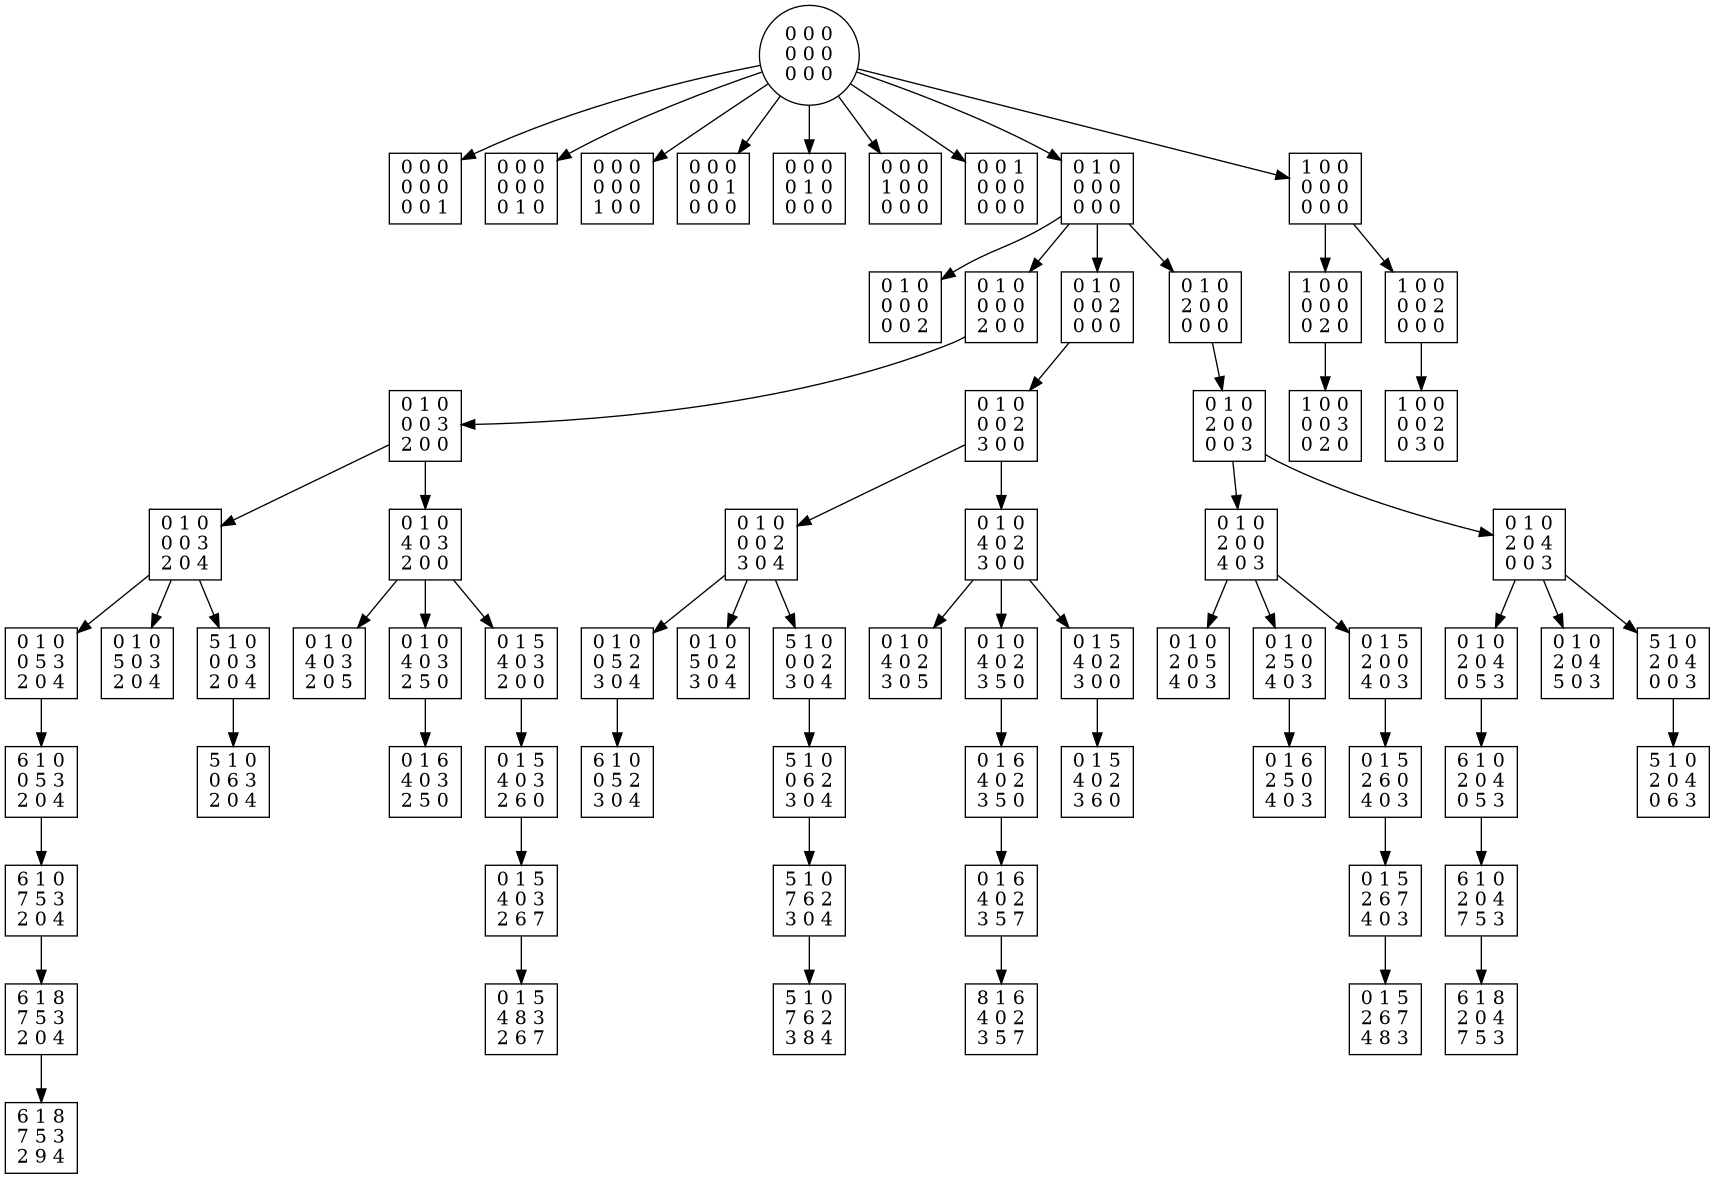
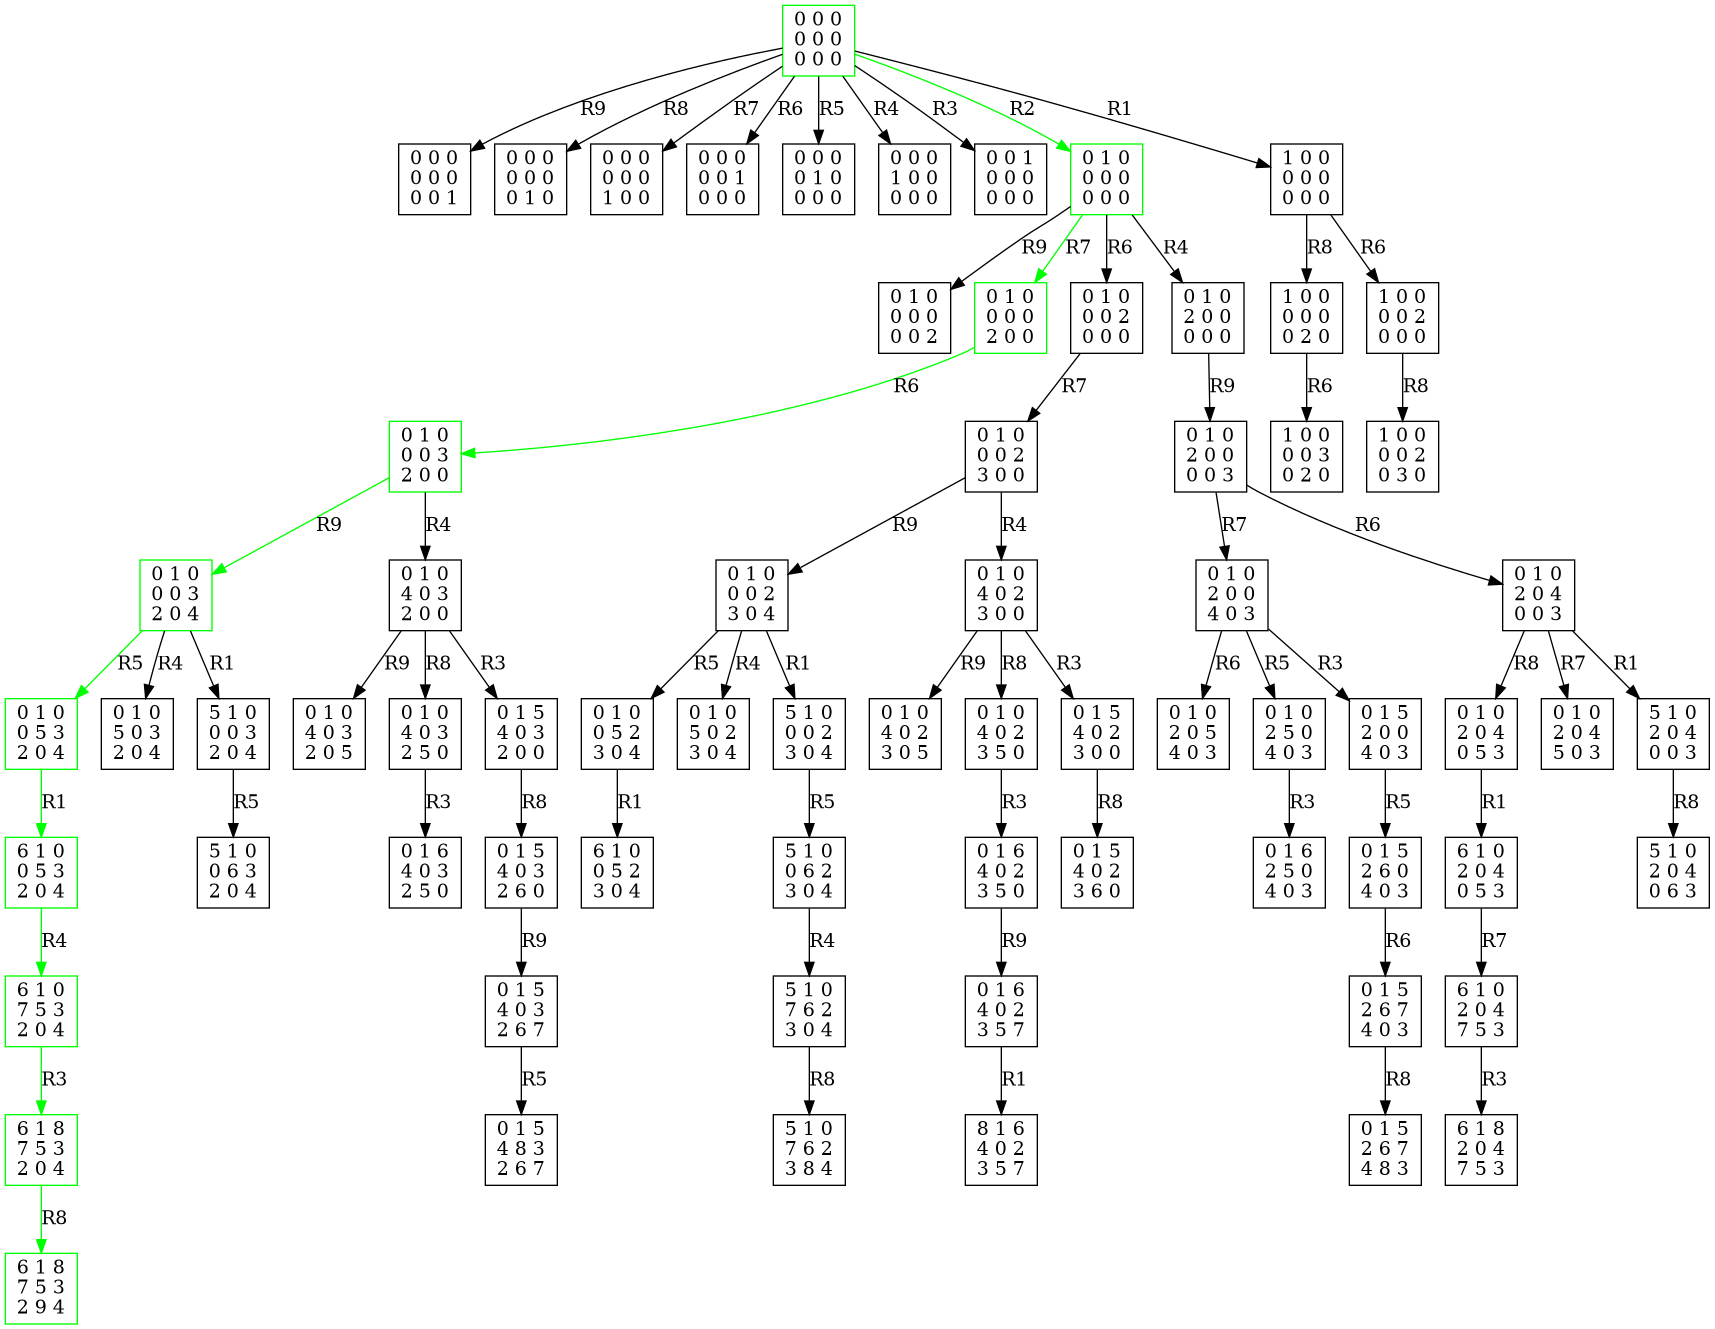
Paint solution path on tree and change nodes and edges names to unique state index

diff --git a/MagicSquare/Search.py b/MagicSquare/Search.py
@@ -9,19 +9,24 @@ from MagicSquare.State import State
 
 class Search:
     def __init__(self, magic_square_size=3, rules_desc=False) -> None:
-        self.__graph = pydot.Dot("search_tree", graph_type="digraph")
-        self.__output_dir_path = path.join(path.curdir, 'search_trees_output')
+        self.__tree = SearchTree()
 
+        self.__graph = pydot.Dot("search_tree", graph_type="digraph")
+        self.__graph.add_node(pydot.Node(self.__tree.root.instance_index, shape="box", label=self.__tree.root.magic_square.__str__()))
+        
+        self.__output_dir_path = path.join(path.curdir, 'search_trees_output')
+        
         if not path.exists(self.__output_dir_path):
             mkdir(self.__output_dir_path)
 
-        self.__tree = SearchTree()
         self.__rules: list[SearchRule] = list()
         self.__rules_desc = rules_desc
 
+        rule_counter = 1
         for x in range(0, magic_square_size):
             for y in range(0, magic_square_size):
-                self.__rules.append(SearchRule(x, y))
+                self.__rules.append(SearchRule(x, y, f'R{rule_counter}'))
+                rule_counter += 1
         
         if self.__rules_desc:
             self.__rules = self.__rules[::-1]
@@ -40,6 +45,36 @@ class Search:
         except IndexError:
             return None
 
+    def __paint_solution_path(self, solution_state: State):
+        current_state = solution_state
+
+        while current_state.parent is not None:
+            edge_source = current_state.parent.instance_index
+            edge_destination = current_state.instance_index
+
+            self.__graph.get_edge(edge_source, edge_destination)[0].obj_dict['attributes']['color'] = 'green'
+            self.__graph.get_node(str(current_state.instance_index))[0].obj_dict['attributes']['color'] = 'green'
+
+            current_state = current_state.parent
+
+        self.__graph.get_node(str(current_state.instance_index))[0].obj_dict['attributes']['color'] = 'green'
+
+    def __add_state_to_tree(self, state: State, rule_name: str):
+        self.__graph.add_node(
+            pydot.Node(
+                state.instance_index,
+                shape="box",
+                label=state.magic_square.__str__()
+            )
+        )
+        self.__graph.add_edge(
+            pydot.Edge(
+                state.parent.instance_index,
+                state.instance_index,
+                label=rule_name
+            )
+        )
+
     def backtracking_search(self) -> State:
         current_state = self.tree.root
         new_state: State = None
@@ -53,8 +88,7 @@ class Search:
                     new_state = current_state.visit_new_state(next_rule)
 
                     if new_state:
-                        self.__graph.add_node(pydot.Node(new_state.magic_square.__str__(), shape="box"))
-                        self.__graph.add_edge(pydot.Edge(new_state.parent.magic_square.__str__(), new_state.magic_square.__str__()))
+                        self.__add_state_to_tree(new_state, next_rule.name)
                 else:
                     # Deadlock state
                     current_state = current_state.parent
@@ -66,8 +100,10 @@ class Search:
                 current_state = new_state
                 new_state = None
 
+        self.__paint_solution_path(new_state)
         file_path = path.join(self.__output_dir_path, f"backtracking-search-tree-{'desc' if self.__rules_desc else 'asc'}.png")
         self.__graph.write_png(file_path)
+
         return new_state
 
     def breadth_search(self) -> State:
@@ -93,14 +129,15 @@ class Search:
 
                         if new_state:
                             open_states_queue.put(new_state)
-                            self.__graph.add_node(pydot.Node(new_state.magic_square.__str__(), shape="box"))
-                            self.__graph.add_edge(pydot.Edge(new_state.parent.magic_square.__str__(), new_state.magic_square.__str__()))
+                            self.__add_state_to_tree(new_state, next_rule.name)
                     else:
                         closed_states.append(current_state)
                         break
 
+        self.__paint_solution_path(current_state)
         file_path = path.join(self.__output_dir_path, f"breadth-search-tree-{'desc' if self.__rules_desc else 'asc'}.png")
         self.__graph.write_png(file_path)
+
         return current_state
 
     def depth_search(self):
@@ -126,12 +163,13 @@ class Search:
 
                         if new_state:
                             open_states_stack.append(new_state)
-                            self.__graph.add_node(pydot.Node(new_state.magic_square.__str__(), shape="box"))
-                            self.__graph.add_edge(pydot.Edge(new_state.parent.magic_square.__str__(), new_state.magic_square.__str__()))
+                            self.__add_state_to_tree(new_state, next_rule.name)
                     else:
                         closed_states.append(current_state)
                         break
 
+        self.__paint_solution_path(current_state)
         file_path = path.join(self.__output_dir_path, f"depth-search-tree-{'desc' if self.__rules_desc else 'asc'}.png")
         self.__graph.write_png(file_path)
+
         return current_state
